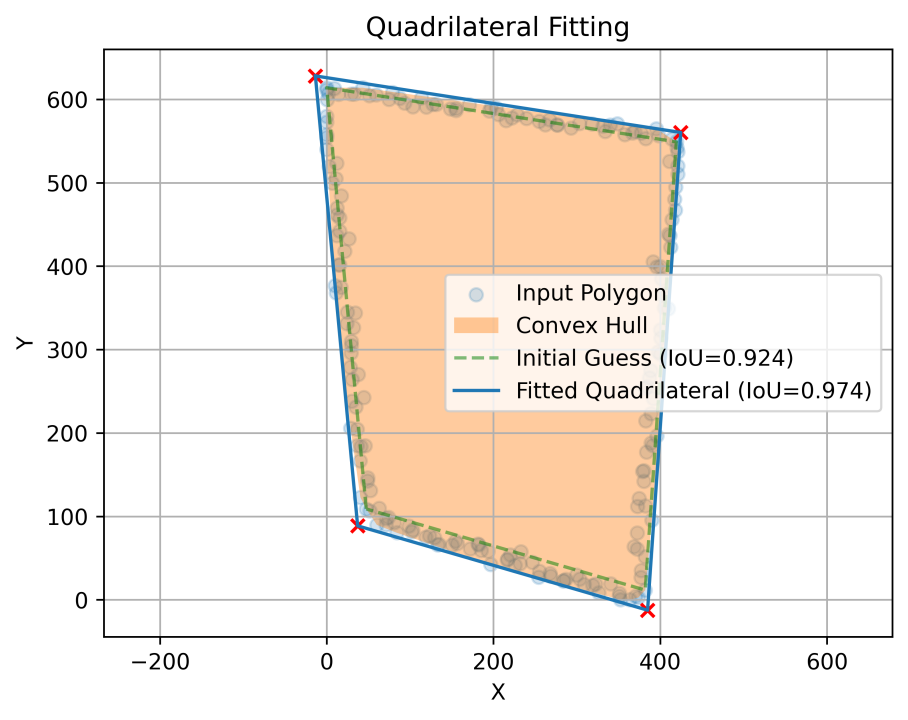
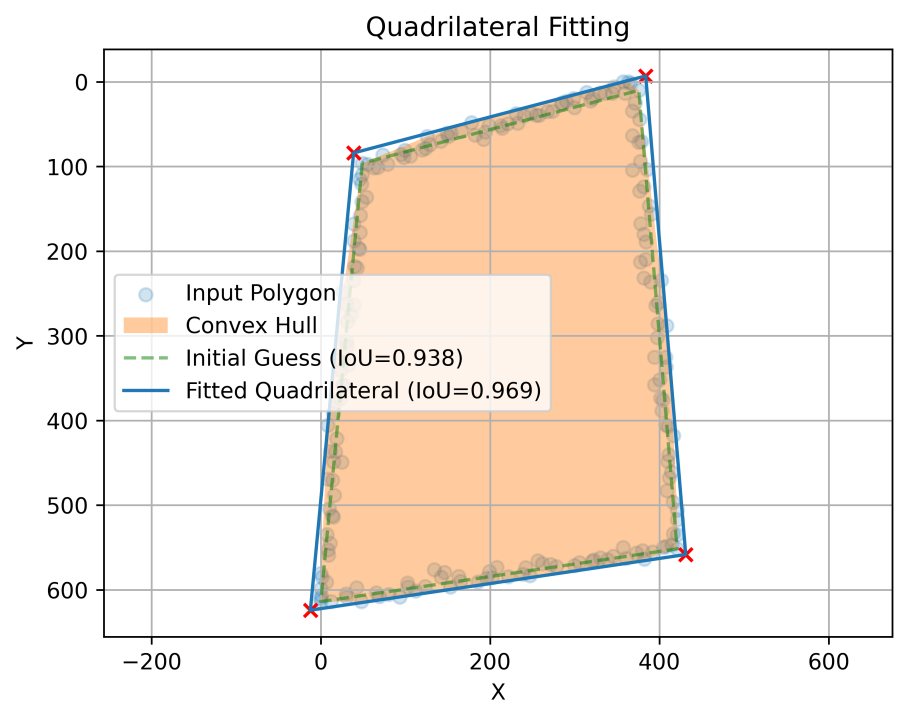
plot improvements

diff --git a/quadrilateral_fitter/quadrilateral_fitter.py b/quadrilateral_fitter/quadrilateral_fitter.py
@@ -22,10 +22,13 @@ class QuadrilateralFitter:
         self.fitted_quadrilateral = None
 
     @property
-    def tight_quadrilateral(self):
-        return self._initial_guess
+    def tight_quadrilateral(self) -> \
+            tuple[tuple[float, float], tuple[float, float], tuple[float, float], tuple[float, float]]:
+        # Cast it from Shapely polygon to a tuple of coords
+        return tuple(self._initial_guess.exterior.coords)[:-1]
 
-    def fit(self) -> tuple[tuple[float, float], tuple[float, float], tuple[float, float], tuple[float, float]]:
+    def fit(self, simplify_polygons_larger_than: int|None = 10) -> \
+            tuple[tuple[float, float], tuple[float, float], tuple[float, float], tuple[float, float]]:
         """
         Fits an irregular quadrilateral around the input polygon. The quadrilateral is optimized to minimize
         the Intersection over Union (IoU) with the input polygon.
@@ -42,20 +45,20 @@ class QuadrilateralFitter:
 
         :raises AssertionError: If the input polygon does not have a shape of (N, 2).
         """
-        self._initial_guess = self.__find_initial_quadrilateral()
+        self._initial_guess = self.__find_initial_quadrilateral(max_sides_to_simplify=simplify_polygons_larger_than)
         self.fitted_quadrilateral = self.__expand_quadrilateral(self._initial_guess)
         return self.fitted_quadrilateral
 
 
-    def __find_initial_quadrilateral(self, simplify_polygons_larger_than: int | None = 10) -> Polygon:
+    def __find_initial_quadrilateral(self, max_sides_to_simplify: int | None = 10) -> Polygon:
         """
         Internal method to find the initial approximating quadrilateral based on the vertices of the Convex Hull.
         To find the initial quadrilateral, we iterate through all 4-vertex combinations of the Convex Hull vertices
         and find the one with the highest Intersection over Union (IoU) with the Convex Hull. It will ensure that
         it is the best possible quadrilateral approximation to the input polygon.
-        :param simplify_polygons_larger_than: int|None. If a number is specified, the method will make a
+        :param max_sides_to_simplify: int|None. If a number is specified, the method will make a
                         preliminar Douglas-Peucker simplification of the Convex Hull if it has more than
-                        simplify_polygons_larger_than vertices. This will speed up the process, but may
+                        max_sides_to_simplify vertices. This will speed up the process, but may
                         lead to a sub-optimal quadrilateral approximation.
 
         :return: Polygon. A Shapely Polygon object representing the initial quadrilateral approximation.
@@ -65,7 +68,7 @@ class QuadrilateralFitter:
 
         # Simplify the Convex Hull if it has more than simplify_polygons_larger_than vertices
         simplified_polygon = self.__simplify_polygon(polygon=self.convex_hull_polygon,
-                                                     max_sides=simplify_polygons_larger_than)
+                                                     max_sides=max_sides_to_simplify)
 
         # Iterate through all 4-vertex combinations to form potential quadrilaterals
         for vertices_combination in combinations(mapping(simplified_polygon)['coordinates'][0], 4):
@@ -251,7 +254,7 @@ class QuadrilateralFitter:
             # Calculate the IoU between the Convex Hull and the best-fitting quadrilateral
             iou = self.__iou(polygon1=self.convex_hull_polygon, polygon2=Polygon(self._initial_guess))
             x, y = self._initial_guess.exterior.xy
-            plt.plot(x, y, linestyle='--', alpha=0.5, label=f'Initial Guess (IoU={iou:.3f})')
+            plt.plot(x, y, linestyle='--', alpha=0.5, color='green', label=f'Initial Guess (IoU={iou:.3f})')
 
         # Plot the best quadrilateral if it exists
         if self.fitted_quadrilateral is not None:
@@ -265,9 +268,12 @@ class QuadrilateralFitter:
 
         plt.axis('equal')
         plt.xlabel('X')
+        # Reverse Y axis
         plt.ylabel('Y')
         plt.title('Quadrilateral Fitting')
         plt.legend()
+        ax = plt.gca()  # Get current axes
+        ax.invert_yaxis()
         plt.grid(True)
         plt.show()
 

diff --git a/main.py b/main.py
@@ -8,7 +8,7 @@ def yugioh_test():
     true_corners = np.array([[50., 100.], [370., 0.], [421., 550.], [0., 614.], [50., 100.]], dtype=np.float32)
 
     # Generate the noisy corners
-    sides = [np.linspace([x1, y1], [x2, y2], 50) + np.random.normal(scale=5, size=(50, 2))
+    sides = [np.linspace([x1, y1], [x2, y2], 25) + np.random.normal(scale=5, size=(25, 2))
              for (x1, y1), (x2, y2) in zip(true_corners[:-1], true_corners[1:])]
     noisy_corners = np.concatenate(sides, axis=0)
 
@@ -16,39 +16,14 @@ def yugioh_test():
     noisy_corners[:, 0] = np.clip(noisy_corners[:, 0], a_min=0., a_max=image.shape[1])
     noisy_corners[:, 1] = np.clip(noisy_corners[:, 1], a_min=0., a_max=image.shape[0])
 
-    fig, ax = plt.subplots()
-    ax.imshow(image), ax.axis('off')
+    print(noisy_corners.tolist())
 
-    # Draw the true corners
-    ax.plot(true_corners[:, 0], true_corners[:, 1], linestyle='--', marker='o', alpha=0.9, label='True Polygon')
-    # Draw the noisy corners
-    ax.plot(noisy_corners[:, 0], noisy_corners[:, 1], linestyle='-', alpha=0.6, label='Noisy Detection')
-
-    ax.legend(fontsize='small')
-    plt.show()
-    #plt.savefig('./resources/yugioh_noisy_detection2.png', dpi=600, bbox_inches='tight')
-    # Fit an input polygon of N sides
     fitter = QuadrilateralFitter(polygon=noisy_corners)
-    fitted_quadrilateral = fitter.fit()
+    fitted_quadrilateral = fitter.fit(simplify_polygons_larger_than=30)
     tight_quadrilateral = fitter.tight_quadrilateral
-    fitter.plot()
 
-    # Draw the fitted quadrilateral on the image
-    fig, ax = plt.subplots()
-    ax.imshow(image), ax.axis('off')
-    # Draw the input
-    ax.plot(noisy_corners[:, 0], noisy_corners[:, 1], linestyle='-', alpha=0.7, label='Input Detection')
-    # Draw the fitted quadrilateral
-    fitted_quadrilateral = np.array(fitted_quadrilateral+(fitted_quadrilateral[0],), dtype=np.float32)
-    tight_quadrilateral = np.array(tight_quadrilateral.exterior.coords)
-    ax.plot(fitted_quadrilateral[:, 0], fitted_quadrilateral[:, 1], linestyle='--', marker='o', alpha=0.7,
-            label='Fitted Quadrilateral')
-    # Draw the tight quadrilateral
-    ax.plot(tight_quadrilateral[:, 0], tight_quadrilateral[:, 1], linestyle='--', marker='o', alpha=0.7,
-            label='Tight Quadrilateral')
-    ax.legend(fontsize='small')
-    plt.savefig('./resources/yugioh_fitted_quadrilateral4.png', dpi=600, bbox_inches='tight')
-    plt.show()
+    print(fitted_quadrilateral)
+    print(tight_quadrilateral)
 
 
 

diff --git a/README.md b/README.md
@@ -48,7 +48,7 @@ noisy_corners[:, 1] = np.clip(noisy_corners[:, 1], a_min=0., a_max=image.shape[0
 ```
 <div align="center">
 <img alt="Input Sample" title="Input Sample" src="https://raw.githubusercontent.com/Eric-Canas/quadrilateral-fitter/main/resources/input_noisy_detection.png" height="300px" align="center">
-<div/>
+</div>
 
 
 And now, let's run **QuadrilateralFitter** to find the quadrilateral that best approximates our noisy detection (without leaving points outside).
@@ -74,5 +74,32 @@ fitter.plot()
   <img alt="Fitted Quadrilateral" title="Fitted Quadrilateral" src="https://raw.githubusercontent.com/Eric-Canas/quadrilateral-fitter/main/resources/fitted_quadrilateral.png" height="300px">
 </div>
 
+Finally, for use cases like this, we could use fitted quadrilaterals to apply a perspective correction to the image, so we can get a visual insight of the results.
 
+```python
+# Generate the destiny points for the perspective correction by adjusting it to a perfect rectangle
+h, w = image.shape[:2]
 
+for quadrilateral in (fitted_quadrilateral, tight_quadrilateral):
+    # Cast it to a numpy for agile manipulation
+    quadrilateral = np.array(quadrilateral, dtype=np.float32)
+
+    # Get the bounding box of the fitted quadrilateral
+    min_x, min_y = np.min(quadrilateral, axis=0)
+    max_x, max_y = np.max(quadrilateral, axis=0)
+
+    # Define the destiny points for the perspective correction
+    destiny_points = np.array(((min_x, min_y), (max_x, min_y),
+                               (max_x, max_y), (min_x, max_y)), dtype=np.float32)
+
+    # Calculate the homography matrix from the quadrilateral to the rectangle
+    homography_matrix, _ = cv2.findHomography(srcPoints=quadrilateral, dstPoints=rect_points)
+    # Warp the image using the homography matrix
+    warped_image = cv2.warpPerspective(src=image, M=homography_matrix, dsize=(w, h))
+```
+
+<div align="center">
+  <img alt="Input Segmentation" title="Input Segmentation" src="https://raw.githubusercontent.com/Eric-Canas/quadrilateral-fitter/main/resources/input_segmentation.png" height="300px">
+  <img alt="Corrected Perspective Fitted" title="Corrected Perspective Fitted" src="https://raw.githubusercontent.com/Eric-Canas/quadrilateral-fitter/main/resources/corrected_perspective_fitted.png" height="300px">
+  <img alt="Corrected Perspective Tight" title="Corrected Perspective Tight" src="https://raw.githubusercontent.com/Eric-Canas/quadrilateral-fitter/main/resources/corrected_perspective_tight.png" height="300px">
+</div>
